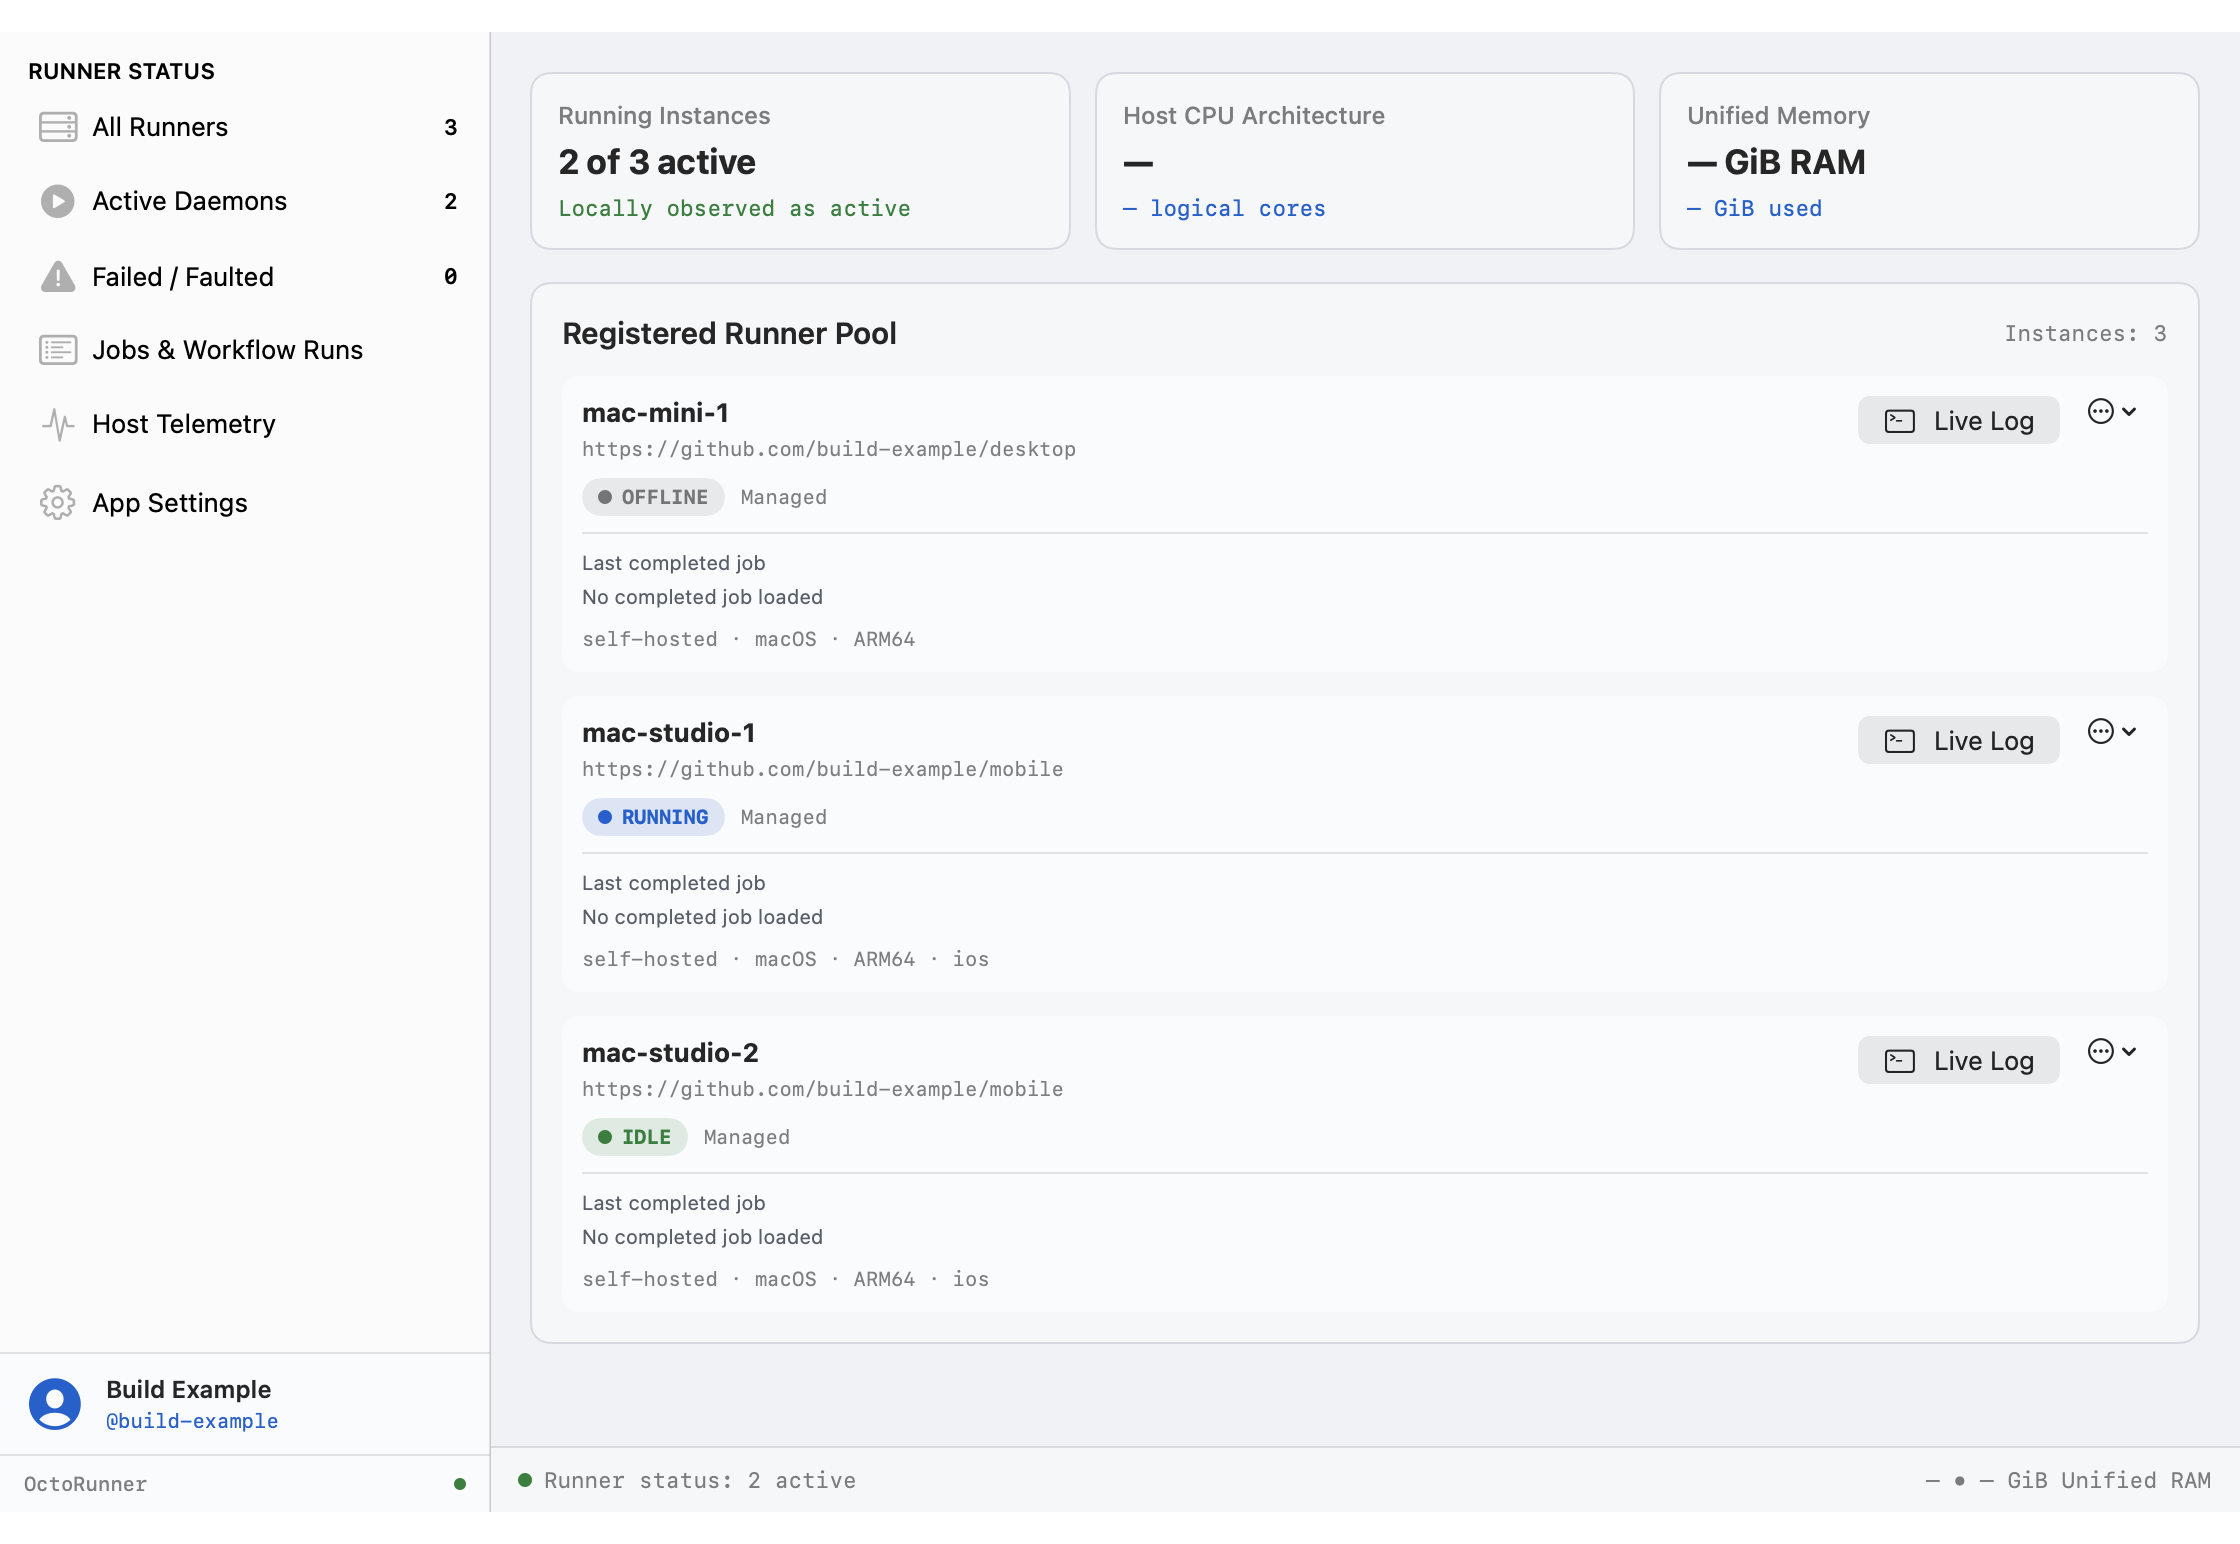
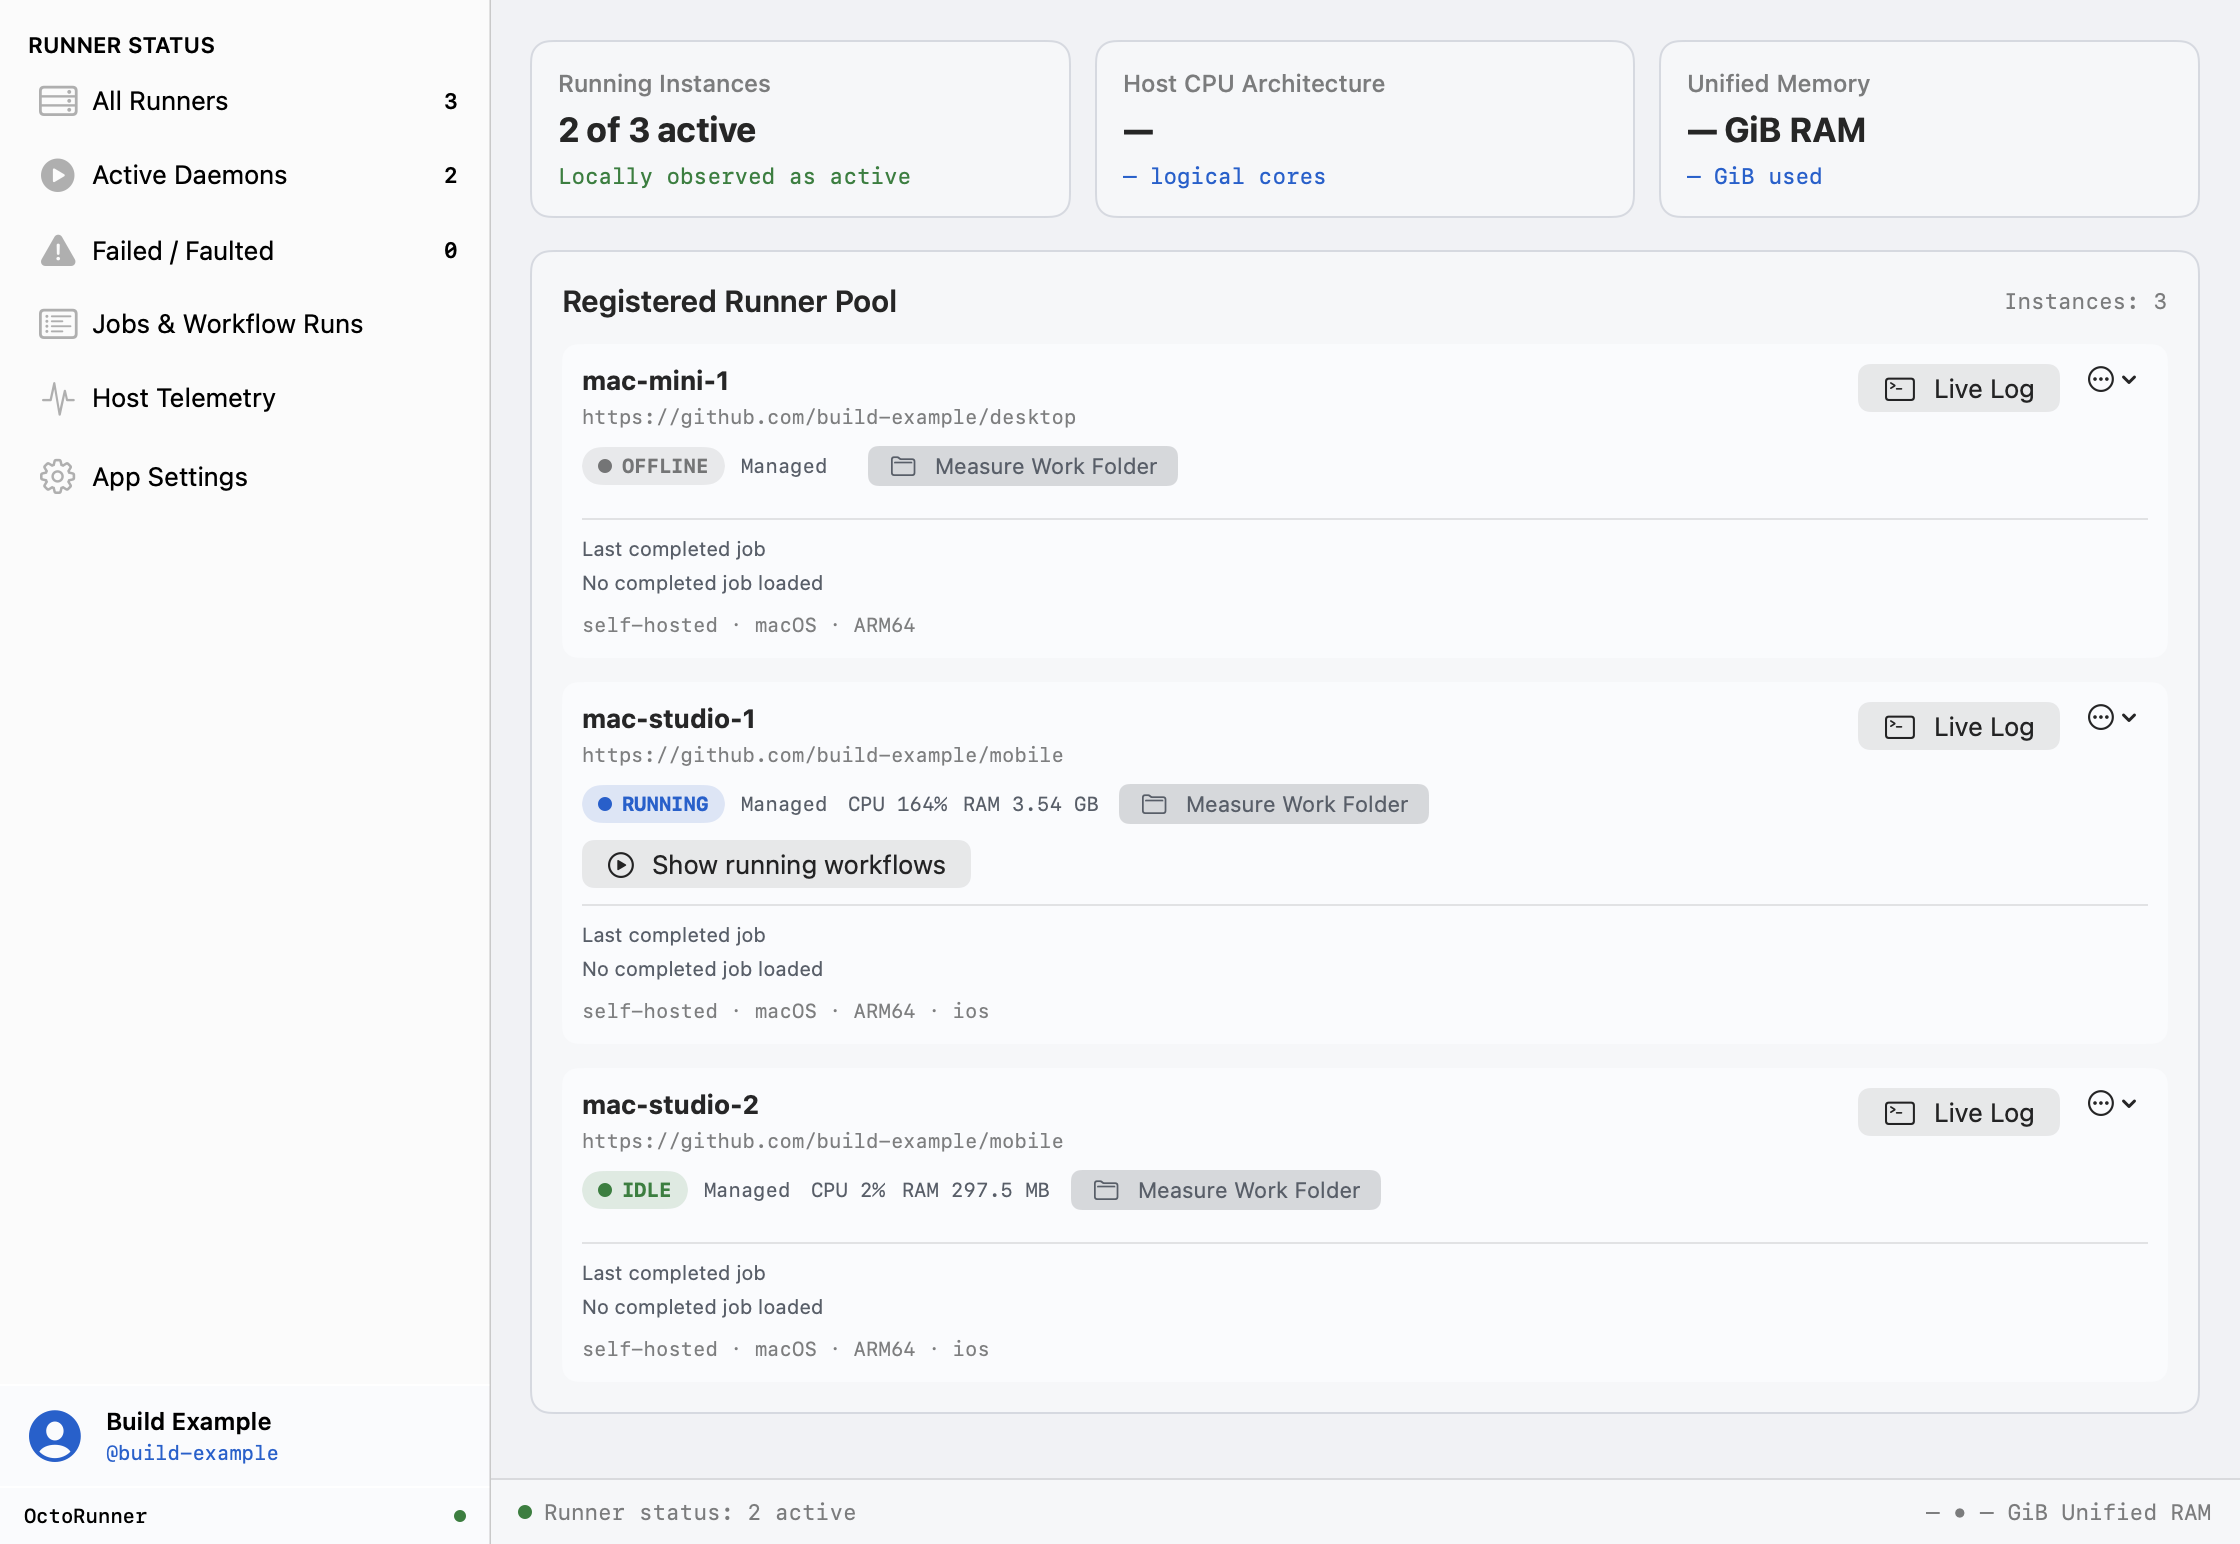
fix(docs): publish the updated dashboard screenshot from one source

diff --git a/Packages/OctoRunnerKit/Tests/OctoRunnerKitTests/DashboardScreenshotTests.swift b/Packages/OctoRunnerKit/Tests/OctoRunnerKitTests/DashboardScreenshotTests.swift
@@ -1,0 +1,32 @@
+import AppKit
+@testable import AppShellFeature
+import SwiftUI
+import Testing
+
+@MainActor
+struct DashboardScreenshotTests {
+    @Test("The public screenshot uses example runner resource readings")
+    func exportDashboard() throws {
+        let usage = try #require(DashboardPreview.resourceUsage["mac-studio-1"])
+        #expect(usage.cpuPercent == 164)
+        #expect((usage.residentBytes ?? 0) > 0)
+        #expect(DashboardPreview.resourceUsage["mac-mini-1"] == nil)
+
+        guard let output = ProcessInfo.processInfo.environment["OCTORUNNER_DASHBOARD_SCREENSHOT"] else { return }
+        let container = try DashboardPreview.makeContainer()
+        let view = DashboardPreview(container: container, language: .english)
+            .environment(\.colorScheme, .light)
+            .frame(width: 1120, height: 772)
+        let bounds = CGRect(x: 0, y: 0, width: 1120, height: 772)
+        let host = NSHostingView(rootView: view)
+        let window = NSWindow(contentRect: bounds, styleMask: [.borderless], backing: .buffered, defer: false)
+        window.appearance = NSAppearance(named: .aqua)
+        window.contentView = host
+        host.frame = bounds
+        host.layoutSubtreeIfNeeded()
+        let bitmap = try #require(host.bitmapImageRepForCachingDisplay(in: bounds))
+        host.cacheDisplay(in: bounds, to: bitmap)
+        let data = try #require(bitmap.representation(using: .png, properties: [:]))
+        try data.write(to: URL(filePath: output), options: .atomic)
+    }
+}

diff --git a/website/index.html b/website/index.html
@@ -12,7 +12,7 @@
   <meta property="og:title" content="OctoRunner – Self-Hosted GitHub Actions Runners on Mac">
   <meta property="og:description" content="Set up and monitor self-hosted GitHub Actions runners on your Apple Silicon Mac with OctoRunner.">
   <meta property="og:url" content="https://loesch-digital.github.io/octorunner/">
-  <meta property="og:image" content="https://loesch-digital.github.io/octorunner/assets/dashboard.webp">
+  <meta property="og:image" content="https://loesch-digital.github.io/octorunner/assets/dashboard.png">
   <meta property="og:image:alt" content="OctoRunner dashboard showing three example GitHub Actions runners.">
   <script type="application/ld+json">
   {
@@ -66,7 +66,7 @@
         </ul>
       </div>
       <div class="hero-visual">
-        <img class="screen" src="assets/dashboard.webp" width="2240" height="1544" alt="OctoRunner dashboard with three example runners. The list shows availability separately from the last job result.">
+        <img class="screen" src="assets/dashboard.png" width="2240" height="1544" alt="OctoRunner dashboard with three example runners. The runner cards show availability, current CPU and memory, and a control to measure work folder size.">
       </div>
     </section>
 

diff --git a/Packages/OctoRunnerKit/Sources/AppShellFeature/DashboardRunnerPool.swift b/Packages/OctoRunnerKit/Sources/AppShellFeature/DashboardRunnerPool.swift
@@ -37,7 +37,7 @@ struct DashboardRunnerPool<Row: View>: View {
                 emptyContent
             } else {
                 ForEach(runners) { runner in
-                    runnerRow(runner, resourceUsage[runner.id])
+                    runnerRow(runner, usage(for: runner))
                 }
             }
         }
@@ -48,6 +48,11 @@ struct DashboardRunnerPool<Row: View>: View {
                 .strokeBorder(OctoTheme.outlineVariant.opacity(0.45), lineWidth: 1)
         }
         .task(id: targets) { await sampleResources(for: targets) }
+    }
+
+    private func usage(for runner: RunnerEntity) -> RunnerResourceUsage? {
+        if usesDashboardSampleData { return DashboardPreview.resourceUsage[runner.name] }
+        return resourceUsage[runner.id]
     }
 
     private var processTargets: [RunnerProcessTarget] {

diff --git a/Packages/OctoRunnerKit/Sources/TelemetryKit/Processes/RunnerResourceUsage.swift b/Packages/OctoRunnerKit/Sources/TelemetryKit/Processes/RunnerResourceUsage.swift
@@ -4,6 +4,11 @@ public struct RunnerResourceUsage: Equatable, Sendable {
     public let cpuPercent: Double?
     public let residentBytes: UInt64?
 
+    public init(cpuPercent: Double?, residentBytes: UInt64?) {
+        self.cpuPercent = cpuPercent
+        self.residentBytes = residentBytes
+    }
+
     public static func byRunner(_ processes: [InspectedRunnerProcess]) -> [UUID: Self] {
         Dictionary(grouping: processes, by: \.runner.id).mapValues { group in
             let cpu = group.compactMap(\.cpuPercent)

diff --git a/Packages/OctoRunnerKit/Sources/AppShellFeature/DashboardPreview.swift b/Packages/OctoRunnerKit/Sources/AppShellFeature/DashboardPreview.swift
@@ -2,11 +2,17 @@ import CoreModels
 import Foundation
 import SwiftData
 import SwiftUI
+import TelemetryKit
 
 @MainActor
 struct DashboardPreview: View {
     let container: ModelContainer
     let language: AppLanguage
+
+    static let resourceUsage = [
+        "mac-studio-1": RunnerResourceUsage(cpuPercent: 164, residentBytes: 3_800_000_000),
+        "mac-studio-2": RunnerResourceUsage(cpuPercent: 2, residentBytes: 312_000_000)
+    ]
 
     var body: some View {
         MainShellView()

diff --git a/scripts/tests/test_website.py b/scripts/tests/test_website.py
@@ -3,11 +3,14 @@
 from html.parser import HTMLParser
 import json
 from pathlib import Path
+import subprocess
+import sys
+from tempfile import TemporaryDirectory
 import unittest
 from urllib.parse import unquote, urlsplit
 
 
-WEBSITE = Path(__file__).resolve().parents[2] / "website"
+ROOT = Path(__file__).resolve().parents[2]
 
 
 class PageReferences(HTMLParser):
@@ -48,8 +51,20 @@ class PageReferences(HTMLParser):
 
 
 class WebsiteTests(unittest.TestCase):
+    @classmethod
+    def setUpClass(cls):
+        directory = TemporaryDirectory()
+        cls.addClassCleanup(directory.cleanup)
+        cls.website = Path(directory.name).resolve() / "site"
+        subprocess.run([sys.executable, str(ROOT / "scripts/stage-website.py"), str(cls.website)], check=True)
+
+    def test_published_dashboard_uses_the_readme_image(self):
+        source = ROOT / "docs/assets/app-screens/dashboard.png"
+        self.assertIn(f"]({source.relative_to(ROOT)})", (ROOT / "README.md").read_text())
+        self.assertEqual((self.website / "assets/dashboard.png").read_bytes(), source.read_bytes())
+
     def test_website_references_resolve_inside_the_published_directory(self):
-        index = WEBSITE / "index.html"
+        index = self.website / "index.html"
         self.assertTrue(index.is_file(), "The Pages artifact requires an index.html")
         page = PageReferences()
         page.feed(index.read_text(encoding="utf-8"))
@@ -60,8 +75,8 @@ class WebsiteTests(unittest.TestCase):
                 if url.scheme or url.netloc:
                     continue
                 self.assertFalse(url.path.startswith("/"), "Use relative URLs for project Pages")
-                target = (WEBSITE / unquote(url.path)).resolve() if url.path else index
-                self.assertTrue(target.is_relative_to(WEBSITE), "Target escapes the Pages artifact")
+                target = (self.website / unquote(url.path)).resolve() if url.path else index
+                self.assertTrue(target.is_relative_to(self.website), "Target escapes the Pages artifact")
                 self.assertTrue(target.is_file(), "Target is missing from the Pages artifact")
                 if target == index and url.fragment:
                     self.assertIn(unquote(url.fragment), page.ids)
@@ -69,7 +84,7 @@ class WebsiteTests(unittest.TestCase):
     def test_discovery_metadata_uses_the_public_pages_url(self):
         canonical = "https://loesch-digital.github.io/octorunner/"
         page = PageReferences()
-        page.feed((WEBSITE / "index.html").read_text(encoding="utf-8"))
+        page.feed((self.website / "index.html").read_text(encoding="utf-8"))
 
         self.assertEqual(page.links.get("canonical"), [canonical])
         self.assertIn("Self-Hosted GitHub Actions Runners", page.text["title"])
@@ -78,7 +93,7 @@ class WebsiteTests(unittest.TestCase):
         self.assertEqual(page.metadata["og:description"], page.metadata["description"])
         image = page.metadata["og:image"]
         self.assertTrue(image.startswith(canonical))
-        self.assertTrue((WEBSITE / image.removeprefix(canonical)).is_file())
+        self.assertTrue((self.website / image.removeprefix(canonical)).is_file())
 
         app = json.loads(page.text["structured_data"])
         self.assertEqual(app["@type"], "SoftwareApplication")
@@ -86,7 +101,7 @@ class WebsiteTests(unittest.TestCase):
         self.assertEqual(app["description"], page.metadata["description"])
 
         self.assertEqual(page.links.get("describedby"), ["llms.txt"])
-        index = (WEBSITE / "llms.txt").read_text(encoding="utf-8")
+        index = (self.website / "llms.txt").read_text(encoding="utf-8")
         self.assertTrue(index.startswith("# OctoRunner\n\n> "))
         self.assertIn(f"]({canonical})", index)
         self.assertIn("https://raw.githubusercontent.com/loesch-digital/octorunner/main/docs/user-guide.md", index)

diff --git a/scripts/stage-website.py b/scripts/stage-website.py
@@ -1,0 +1,12 @@
+"""Stage the static Pages site with the shared dashboard screenshot."""
+
+from pathlib import Path
+import shutil
+import sys
+
+
+if __name__ == "__main__":
+    root = Path(__file__).resolve().parents[1]
+    output = Path(sys.argv[1])
+    shutil.copytree(root / "website", output)
+    shutil.copyfile(root / "docs/assets/app-screens/dashboard.png", output / "assets/dashboard.png")

diff --git a/docs/10-development-and-acceptance.md b/docs/10-development-and-acceptance.md
@@ -89,3 +89,14 @@ Check these behaviors for the patch covered by this guide.
 - GitHub sign-in and runner management work with the required permissions. The app treats absent token scope headers as unknown permissions.
 
 On November 11, 2026, the Debug build succeeded with the Terminal command above. For v0.4.4, 37 Swift tests, 9 Python tests, PR and main CI, the notarized release, the Homebrew upgrade, and Gatekeeper all passed. The user then confirmed that five Dashboard requests opened exactly one window, closing and reopening worked, **Quit** worked, a normal restart skipped the Documents prompt, and all three preview toggles were disabled. Live checks were still pending for a new external folder import and continued operation of specific runners. The computer control tool still returned `cgWindowNotFound`, and the Xcode connector awaited permission through its menu bar icon. The CLI result verified the build, and the user supplied the interactive results.
+
+## Refresh the public dashboard screenshot
+
+After changing the dashboard, regenerate its screenshot from the app’s SwiftUI preview with example data. Run this from the repository root on macOS:
+
+```sh
+OCTORUNNER_DASHBOARD_SCREENSHOT="$PWD/docs/assets/app-screens/dashboard.png" \
+  swift test --package-path Packages/OctoRunnerKit --no-parallel --filter DashboardScreenshotTests
+```
+
+Review the image and commit it with the dashboard change. The README references that PNG directly. GitHub Pages stages the same PNG and redeploys when it changes. To preview the published layout locally, run `python3 scripts/stage-website.py <new-output-directory>` and serve that directory.

diff --git a/README.md b/README.md
@@ -10,7 +10,7 @@ Run GitHub Actions CI/CD on your own Apple Silicon Mac. OctoRunner gives develop
 [![Latest release](https://img.shields.io/github/v/release/loesch-digital/octorunner?label=release&sort=semver)](https://github.com/loesch-digital/octorunner/releases/latest)
 [![License: Apache-2.0](https://img.shields.io/badge/license-Apache--2.0-blue)](LICENSE)
 
-![OctoRunner dashboard showing three example runners in different states](docs/assets/app-screens/dashboard.png)
+![OctoRunner dashboard showing three example runners, CPU and RAM readings, and work folder controls](docs/assets/app-screens/dashboard.png)
 
 ## Install
 
